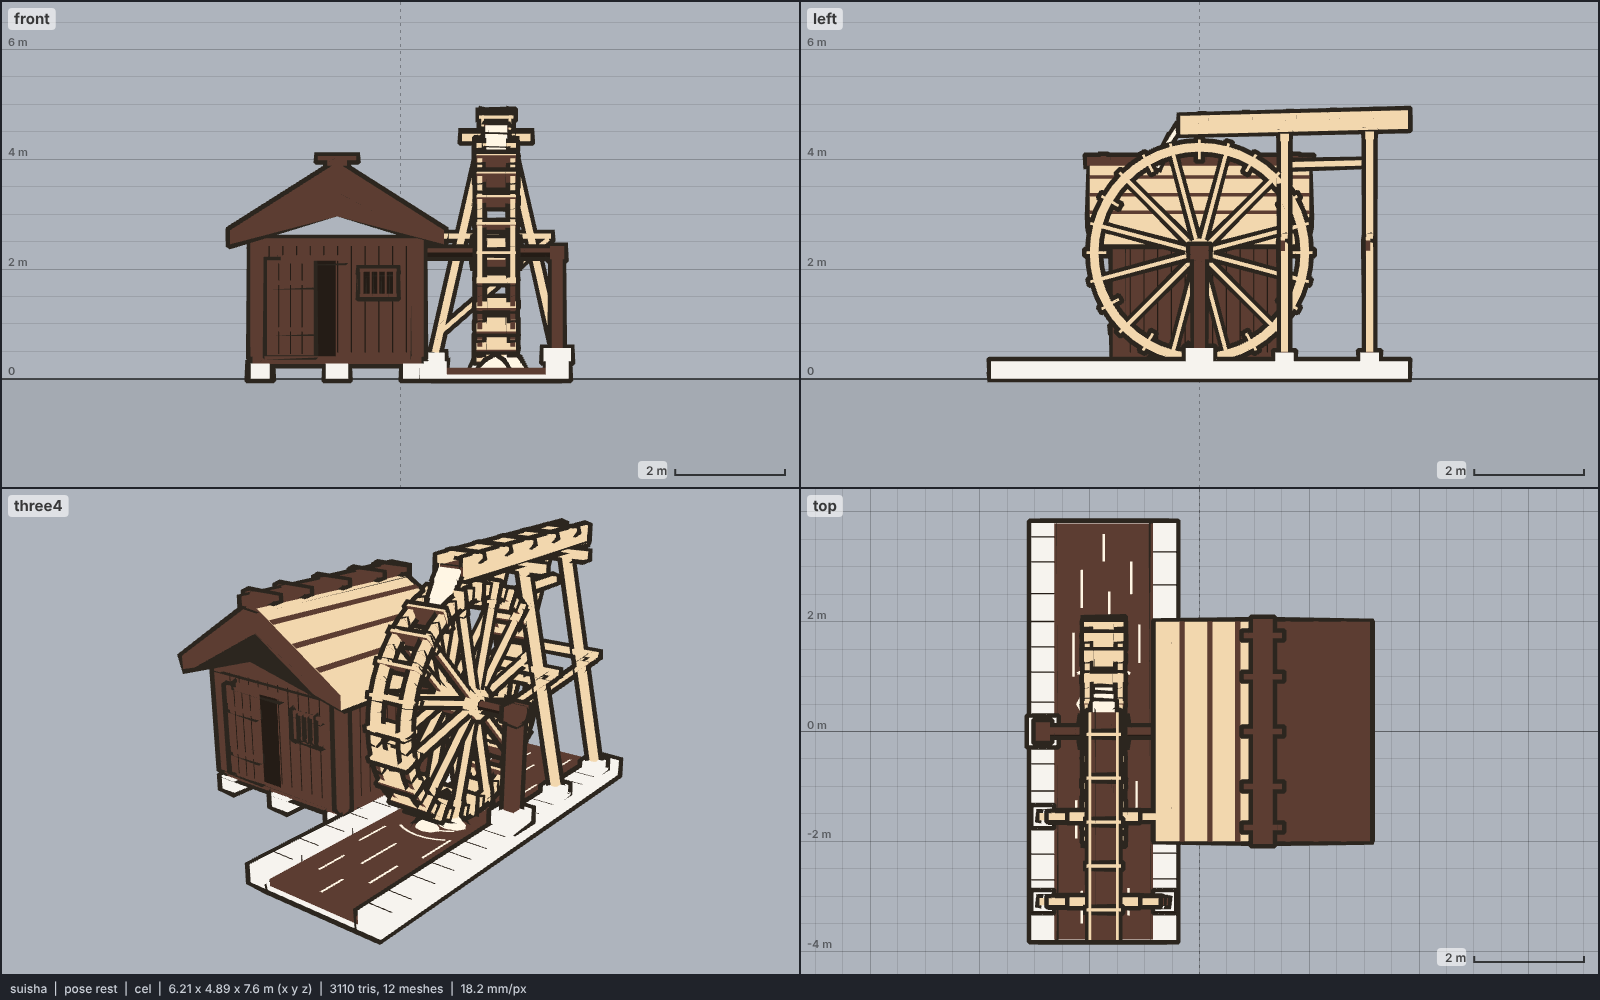
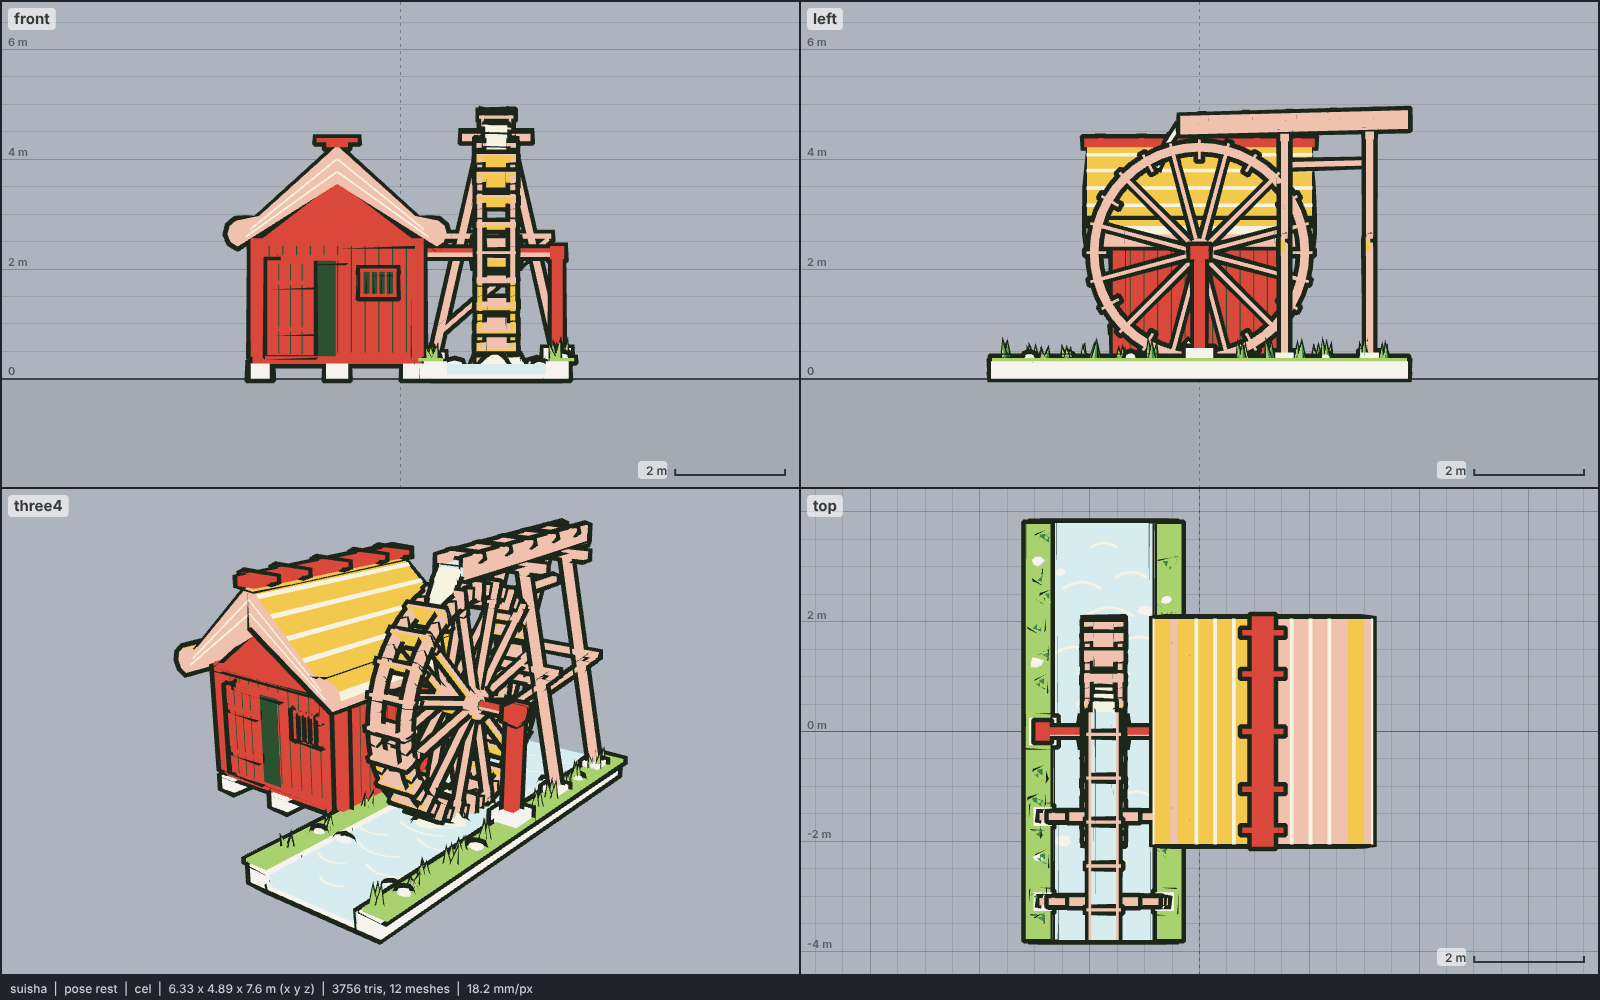
models: suisha, meadow colours so the stream reads as water
Pale sky water with white ripples and foam, grassy bank tops with tufts
and stones, bengara-red hut boards under a straw thatch with banded
layers and a rounded eave roll, fresh pale wheel timber.

Claude-Session: https://claude.ai/code/session_01RarBCdt4E1fNHHaUKaW5GL

diff --git a/models/suisha.js b/models/suisha.js
@@ -5,13 +5,15 @@
 // Construction (triangle soups merged per material, two groups: the static set and the wheel joint; flat-shaded):
 //   WHEEL    a joint at the axle centre turning about X. Two rims, each a ring of 48 box segments in a YZ plane;
 //            12 radial spokes per rim from a round hub; 24 paddle boards spanning the rims, radial, reaching just
-//            past the rims; the wheel's +X face is the lit one, so its spokes and paddles read light on dark water.
+//            past the rims; the wheel's +X face is the lit one, so its pale spokes read on the red hut.
 //   AXLE     a round shaft from inside the hut wall to a bearing block on a post standing on a stone pier on the far
 //            bank; it belongs to the static set (round, so its turn does not show).
 //   HUT      stone footings, a sill, corner posts and plank walls (vertical board lines), a dark door opening with a
-//            plank door slid half open on the +Z face, a barred window, a gable roof of thick thatch (ridge along Z,
-//            so a slope faces the wheel), thatch layer bands, a dark ridge cap.
-//   STREAM   a channel along Z under the wheel between stone bank walls (staggered block joints); the water is a flat
+//            plank door slid half open on the +Z face, a barred window, gable walls, a roof of thick thatch (ridge
+//            along Z, so a slope faces the wheel): each slope a convex loft whose eave is a rounded roll, pale layer
+//            bands on the slopes, the roll and the cut gable ends, a ridge cap with cross pieces.
+//   STREAM   a channel along Z under the wheel between stone bank walls (staggered block joints) with grass caps set
+//            back from the water edge, grass tufts (three-blade cones) and loose stones; the water is a flat
 //            slab just below the bank tops with pale ripple marks (arcs round the wheel foot, dashes downstream)
 //            and four low faceted foam crests where the paddles meet it.
 //   FLUME    a plank trough (bottom, two sides) from the back (-Z) to just past the wheel's crown, rising gently
@@ -19,32 +21,34 @@
 //            pale falling sheet from its lip onto the descending (+Z) paddles, so the wheel turns top-forward (+rx).
 //   Boxes are wound away from their centre; logs and lofts by their signed volume; never by hand.
 // Proportions (base unit the wheel radius R = 2.0 m): wheel D 4.0, width 0.6 between rims, axle at 2.3 (0.3 m above
-//   the water), rims 0.14 deep, paddles 0.34 radial. Hut 3.0 x 3.0 walls, sill 0.4, wall top 2.55, eave 2.45 with
-//   0.45 overhang, ridge 3.75. Channel 1.8 wide, 7.6 long; flume 0.55 wide, its floor 4.45 at the
+//   the water), rims 0.14 deep, paddles 0.34 radial. Hut 3.0 x 3.0 walls, sill 0.4, wall top 2.55, thatch 0.5 thick with
+//   a 0.25 m eave roll at 2.4-2.9 and 0.5 overhang, ridge 4.25. Channel 1.8 wide, 7.6 long; flume 0.55 wide, its floor 4.45 at the
 //   wheel, top 4.89 at the back. Banks 0.32 high, water top 0.27.
 // Options: build(THREE, kit, colors, { height, hut, water }): height scales everything uniformly (default meta.height);
 //   hut: false drops the hut (the axle then ends at a second pier post); water: false drops the water slab, ripples,
 //   the flume water and the falling sheet (an empty channel and a dry flume).
 // Clip: turn (8 s, loops): the wheel joint turns one full turn. pose("turn@2") is a quarter turn.
-// Colours (noon, same script as the kominka farmhouse so they compose): wheel and flume wood sky #f2d7ae / iris (fresh
-//   timber, light on the dark hut and dark water); hut planks and frame iris #5c3d32 / hair; thatch sky / iris with
-//   iris bands (as the kominka); stone sclera / skin; water iris flat with moon ripples; foam and the falling sheet moon / sclera;
-//   lines and openings hair. 12 meshes (10 static, 2 on the wheel joint).
+// Colours (meadow, so the water can be water): wheel, flume and trestles skin #f0c2ae / practical #f2c94c (fresh pale
+//   timber); hut planks, axle and posts accent #d9483b / skin (bengara-red boards, darker than the wheel); thatch
+//   practical / skin with moon #f7f3e1 bands; stone sclera #f6f3ee / sky; grass line #a9d16e / iris #3f8a47; water
+//   sky #d7ecef flat with moon ripples; foam and the falling sheet moon / sky; lines and openings hair #2c5131.
+//   12 meshes (10 static, 2 on the wheel joint).
 
 export const meta = {
   name: "suisha",
   height: 4.894,
-  script: "noon",
+  script: "meadow",
   colors: {
-    wood: "#f2d7ae", woodShade: "#5c3d32",
-    plank: "#5c3d32", plankShade: "#241c16",
-    thatch: "#f2d7ae", thatchShade: "#5c3d32",
-    thatchLine: "#5c3d32",
-    stone: "#f6f3ee", stoneShade: "#f0c2ae",
-    water: "#5c3d32",
-    ripple: "#fff6e4",
-    line: "#241c16",
-    dark: "#241c16",
+    wood: "#f0c2ae", woodShade: "#f2c94c",
+    plank: "#d9483b", plankShade: "#f0c2ae",
+    thatch: "#f2c94c", thatchShade: "#f0c2ae",
+    thatchLine: "#f7f3e1",
+    stone: "#f6f3ee", stoneShade: "#d7ecef",
+    grass: "#a9d16e", grassShade: "#3f8a47",
+    water: "#d7ecef", waterShade: "#d7ecef",
+    ripple: "#f7f3e1",
+    foam: "#f7f3e1", foamShade: "#d7ecef",
+    line: "#2c5131",
   },
   poses: ["rest"],
 };
@@ -127,7 +131,7 @@ export function build(THREE, kit, colors = meta.colors, opts = {}) {
 
   // ---------- layout ----------
   const WX = 1.2, AY = 2.3, R = 2.0, HW = 0.3; // wheel plane x, axle height, rim radius, half width between rims
-  const CX0 = 0.3, CX1 = 2.1, BY = 0.32, WY = 0.2; // channel inner walls, bank top, water top
+  const CX0 = 0.3, CX1 = 2.1, BY = 0.32, WY = 0.27; // channel inner walls, bank top, water top
   const CZ = 3.8; // channel half length
   const HX0 = -3.2, HX1 = -0.2, HZ = 1.5; // hut walls
 
@@ -141,9 +145,37 @@ export function build(THREE, kit, colors = meta.colors, opts = {}) {
     for (let z = -CZ + 0.3, i = 0; z < CZ - 0.2; z += 0.55 + 0.1 * jit(i + 20 * k), i++) {
       const y0 = i % 2 ? BY * 0.5 : 0, y1 = i % 2 ? BY : BY * 0.5;
       quad("line", [xf, y0, z - 0.012], [xf, y0, z + 0.012], [xf, y1, z + 0.012], [xf, y1, z - 0.012], [xc, BY / 2, z]);
-      strip("line", BY + 0.003, x0, z + 0.2, x1, z + 0.2, 0.024);
     }
+    // grass cap, inset from the water edge so a stone lip shows; it runs a little past the outer face
+    const gx0 = k ? x0 + 0.07 : x0 - 0.1, gx1 = k ? x1 + 0.1 : x1 - 0.07;
+    box("grass", (gx0 + gx1) / 2, BY + 0.03, 0, gx1 - gx0, 0.06, 2 * CZ - 0.04);
   }
+  // grass tufts (three blades each) and loose stones along the banks
+  const tuft = (x, z, h, k) => {
+    for (let b = 0; b < 3; b++) {
+      const a = k * 2.1 + b * 2.09, r = 0.07, lean = 0.06 * (b - 1);
+      const bx = x + 0.05 * Math.cos(a), bz = z + 0.05 * Math.sin(a);
+      const ring = [0, 1, 2].map((i) => [bx + r * Math.cos(a + (i * 2 * Math.PI) / 3), BY + 0.04, bz + r * Math.sin(a + (i * 2 * Math.PI) / 3)]);
+      solid("grass", [ring], undefined, [bx + lean, BY + 0.06 + h * (0.8 + 0.25 * b / 2), bz + lean * jit(k + b)]);
+    }
+  };
+  const pebble = (x, y, z, r, k) => {
+    const n = 7, ring = (rr, yy) => Array.from({ length: n }, (_, i) => {
+      const a = (i / n) * Math.PI * 2 + k, q = rr * (1 + 0.2 * jit(k * 13 + i));
+      return [x + q * Math.cos(a), yy, z + q * 0.8 * Math.sin(a)];
+    });
+    solid("stone", [ring(r, y), ring(r * 0.75, y + r * 0.55)], undefined, [x, y + r * 0.75, z]);
+  };
+  for (let i = 0; i < 14; i++) {
+    const z = -CZ + 0.35 + i * 0.53 + 0.12 * jit(i);
+    if (Math.abs(z) < 0.45) continue; // the piers
+    tuft(CX1 + 0.12 + 0.18 * (0.5 + 0.5 * jit(i + 3)), z, 0.22 + 0.08 * jit(i + 5), i);
+    if (i % 2 === 0 && Math.abs(z + 1.55) > 0.3 && Math.abs(z + 3.1) > 0.3) tuft(CX0 - 0.3 + 0.15 * (0.5 + 0.5 * jit(i + 9)), z + 0.2, 0.2, i + 40);
+  }
+  for (const [x, z, r, k] of [[CX1 + 0.32, 1.25, 0.13, 1], [CX1 + 0.28, -2.3, 0.11, 2], [CX1 + 0.3, 3.1, 0.12, 3], [CX0 - 0.25, 2.4, 0.11, 4], [CX0 - 0.3, -0.9, 0.1, 5]])
+    pebble(x, BY + 0.05, z, r, k);
+  if (water) for (const [x, z, r, k] of [[CX0 + 0.14, 2.2, 0.15, 6], [CX1 - 0.16, -2.0, 0.17, 7], [CX1 - 0.12, 2.9, 0.12, 8]])
+    pebble(x, WY - 0.05, z, r, k);
   box("stone", (CX0 + CX1) / 2, 0.04, 0, CX1 - CX0, 0.08, 2 * CZ); // bed
   if (water) {
     box("water", (CX0 + CX1) / 2, (0.08 + WY) / 2, 0, CX1 - CX0, WY - 0.08, 2 * CZ - 0.02);
@@ -166,7 +198,10 @@ export function build(THREE, kit, colors = meta.colors, opts = {}) {
     });
     for (const [x, z, L] of [[0.55, 1.6, 0.7], [1.75, 1.4, 0.8], [1.1, 2.1, 0.9], [0.7, 2.8, 0.6], [1.6, 2.6, 0.7], [1.2, 3.35, 0.5],
       [0.6, -1.2, 0.6], [1.7, -1.6, 0.7], [1.15, -2.4, 0.8], [0.75, -3.1, 0.5], [1.6, -3.2, 0.6]])
-      strip("ripple", RY, x, z - L / 2, x, z + L / 2, 0.045);
+      for (let i = 0; i < 4; i++) { // a shallow arc bowed downstream
+        const t0 = -1 + i / 2, t1 = -1 + (i + 1) / 2, bow = 0.18 * L;
+        strip("ripple", RY, x + (t0 * L) / 2, z + bow * (1 - t0 * t0), x + (t1 * L) / 2, z + bow * (1 - t1 * t1), 0.05);
+      }
   }
 
   // ---------- axle, bearing post on a pier ----------
@@ -201,30 +236,64 @@ export function build(THREE, kit, colors = meta.colors, opts = {}) {
     }
     // door on +Z: a dark opening, a plank door slid half over it, a lintel; a barred window
     const DX = -2.15, DW = 0.85, DT = 2.15;
-    box("dark", DX, (SY + DT) / 2, HZ + 0.006, DW, DT - SY, 0.01);
+    box("line", DX, (SY + DT) / 2, HZ + 0.006, DW, DT - SY, 0.01);
     box("plank", DX, DT + 0.05, HZ + 0.03, DW + 0.3, 0.1, 0.06);
     box("plank", DX - 0.4, (SY + DT) / 2 + 0.02, HZ + 0.06, DW, DT - SY - 0.02, 0.04);
     for (let i = 1; i < 4; i++) box("line", DX - 0.4 - DW / 2 + (i * DW) / 4, (SY + DT) / 2, HZ + 0.082, 0.02, DT - SY - 0.1, 0.004);
     box("plank", DX - 0.4, 0.9, HZ + 0.09, DW - 0.08, 0.08, 0.025); // batten
     box("plank", DX - 0.4, 1.75, HZ + 0.09, DW - 0.08, 0.08, 0.025);
-    box("dark", -0.95, 1.75, HZ + 0.006, 0.55, 0.4, 0.01);
+    box("line", -0.95, 1.75, HZ + 0.006, 0.55, 0.4, 0.01);
     for (const [ox, oy, sx, sy] of [[0, 0.23, 0.67, 0.06], [0, -0.23, 0.67, 0.06], [0.3, 0, 0.06, 0.52], [-0.3, 0, 0.06, 0.52]])
       box("plank", -0.95 + ox, 1.75 + oy, HZ + 0.03, sx, sy, 0.05);
     for (let i = 1; i <= 3; i++) box("plank", -0.95 - 0.275 + i * 0.1375, 1.75, HZ + 0.03, 0.035, 0.4, 0.04);
     // roof: thick thatch, ridge along Z
-    const EY = 2.45, RY = 3.75, OV = 0.45, T = 0.32, RZ = HZ + 0.5;
+    const EY = 2.4, RY = 3.75, OV = 0.5, T = 0.5, RZ = HZ + 0.55, LR = 0.25;
     const xl = HX0 - OV, xr = HX1 + OV;
-    const sec = (z) => [[xl, EY, z], [xl, EY + T * 0.8, z], [cx, RY + T * 0.6, z], [xr, EY + T * 0.8, z], [xr, EY, z], [cx, RY - 0.25, z]];
-    solid("thatch", [sec(-RZ), sec(RZ)]);
-    // thatch layer bands on both slopes, and the gable ends' cut showing as bands
-    const E = (sg) => [sg < 0 ? xl : xr, EY + T * 0.8], A = [cx, RY + T * 0.6];
-    for (const f of [0.22, 0.48, 0.74]) for (const sg of [-1, 1]) {
-      const e = E(sg), P = (g) => [e[0] + g * (A[0] - e[0]), e[1] + g * (A[1] - e[1]) + 0.025];
-      const [p0, p1] = [P(f), P(f + 0.05)];
+    // section in XY, one closed loop: underside apex, left lip (a rounded roll), top apex, right lip
+    const lip = (sg) => { // points round the eave roll, from the underside to the top surface
+      const ccx = sg < 0 ? xl + LR : xr - LR, ccy = EY + LR;
+      const out = [];
+      for (let i = 0; i <= 6; i++) {
+        const t = (-75 + (i / 6) * 215) * (Math.PI / 180); // -75 deg (under) .. 140 deg (over the top)
+        out.push([ccx + sg * LR * Math.cos(t), ccy + LR * Math.sin(t)]); // sg points outward
+      }
+      return out;
+    };
+    const L0 = lip(-1), R0 = lip(1);
+    // each slope is its own convex loop (so the centroid-fan gable caps are right); they meet at the ridge plane
+    for (const Lp of [L0, R0]) {
+      const sec = (z) => [[cx, RY - 0.2], ...Lp, [cx, RY + T]].map(([x, y]) => [x, y, z]);
+      solid("thatch", [sec(-RZ), sec(RZ)]);
+    }
+    // thatch layer bands on both slopes (from the lip top to the apex), raised a little
+    const A = [cx, RY + T];
+    for (const f of [0.2, 0.42, 0.64, 0.84]) for (const Lp of [L0, R0]) {
+      const e = Lp[Lp.length - 1], P = (g) => [e[0] + g * (A[0] - e[0]), e[1] + g * (A[1] - e[1]) + 0.03];
+      const [p0, p1] = [P(f), P(f + 0.045)];
       quad("thatchLine", [p0[0], p0[1], -RZ - 0.01], [p0[0], p0[1], RZ + 0.01], [p1[0], p1[1], RZ + 0.01], [p1[0], p1[1], -RZ - 0.01], [cx, EY, 0]);
     }
-    box("plank", cx, RY + T * 0.6 + 0.02, 0, 0.36, 0.16, 2 * RZ + 0.1); // ridge cap
-    for (const z of [-RZ + 0.25, -RZ + 1.0, 0, RZ - 1.0, RZ - 0.25]) box("plank", cx, RY + T * 0.6 + 0.08, z, 0.7, 0.08, 0.1);
+    // gable walls under the roof (plank), and layer lines on the thatch's cut ends
+    for (const zs of [-1, 1]) {
+      const g = (z) => [[HX0, TOP - 0.1, z], [HX1, TOP - 0.1, z], [cx, RY - 0.15, z]];
+      solid("plank", [g(zs * (HZ - 0.04)), g(zs * (HZ + 0.04))]);
+      for (const Lp of [L0, R0]) for (const f of [0.35, 0.68]) {
+        const e = Lp[Lp.length - 1], b = Lp[0], zf = zs * (RZ + 0.006);
+        // a line parallel to the slope, a fraction f down from the top surface toward the underside
+        const P = (u) => { // u: 0 at the lip, 1 at the ridge plane
+          const top = [e[0] + u * (cx - e[0]), e[1] + u * (RY + T - e[1])], bot = [b[0] + u * (cx - b[0]), b[1] + u * (RY - 0.2 - b[1])];
+          return [top[0] + f * (bot[0] - top[0]), top[1] + f * (bot[1] - top[1])];
+        };
+        const [p0, p1] = [P(0.04), P(0.995)];
+        quad("thatchLine", [p0[0], p0[1] - 0.02, zf], [p1[0], p1[1] - 0.02, zf], [p1[0], p1[1] + 0.02, zf], [p0[0], p0[1] + 0.02, zf], [cx, RY, 0]);
+      }
+    }
+    // bands on the lip roll: a darker strip along its outer face
+    for (const [sg, Lp] of [[-1, L0], [1, R0]]) {
+      const p0 = Lp[2], p1 = Lp[3], o = sg * 0.012;
+      quad("thatchLine", [p0[0] + o, p0[1], -RZ - 0.01], [p0[0] + o, p0[1], RZ + 0.01], [p1[0] + o, p1[1], RZ + 0.01], [p1[0] + o, p1[1], -RZ - 0.01], [cx, EY + LR, 0]);
+    }
+    box("plank", cx, RY + T + 0.05, 0, 0.4, 0.16, 2 * RZ + 0.1); // ridge cap
+    for (const z of [-RZ + 0.25, -RZ + 1.0, 0, RZ - 1.0, RZ - 0.25]) box("plank", cx, RY + T + 0.1, z, 0.75, 0.08, 0.1);
   }
 
   // ---------- flume on trestles ----------
@@ -277,7 +346,7 @@ export function build(THREE, kit, colors = meta.colors, opts = {}) {
     }
   }
   cyl("wood", [-HW - 0.12, 0, 0], [HW + 0.12, 0, 0], 0.26, 12); // hub
-  cyl("dark", [-HW - 0.125, 0, 0], [HW + 0.125, 0, 0], 0.1, 8); // axle hole ends (dark discs)
+  cyl("line", [-HW - 0.125, 0, 0], [HW + 0.125, 0, 0], 0.1, 8); // axle hole ends (dark discs)
   for (let i = 0; i < NP; i++) {
     const a = (i / NP) * Math.PI * 2, [ya, za] = yz(R - 0.3, a), [yb, zb] = yz(R + 0.06, a);
     // a radial board: length along x, thickness tangential
@@ -295,11 +364,11 @@ export function build(THREE, kit, colors = meta.colors, opts = {}) {
     thatch: [c.thatch, c.thatchShade, 0.35, true],
     thatchLine: [c.thatchLine, c.thatchLine, 0.1, false],
     stone: [c.stone, c.stoneShade, 0.1, true],
-    water: [c.water, c.water, 0.1, false],
+    water: [c.water, c.waterShade, 0.1, false],
     ripple: [c.ripple, c.ripple, 0.1, false],
-    foam: [c.ripple, c.stone, 0.1, true],
+    foam: [c.foam, c.foamShade, 0.1, true],
+    grass: [c.grass, c.grassShade, 0.2, true],
     line: [c.line, c.line, 0.1, false],
-    dark: [c.dark, c.dark, 0.1, false],
   };
   const wheel = new THREE.Group();
   wheel.name = "wheel";
